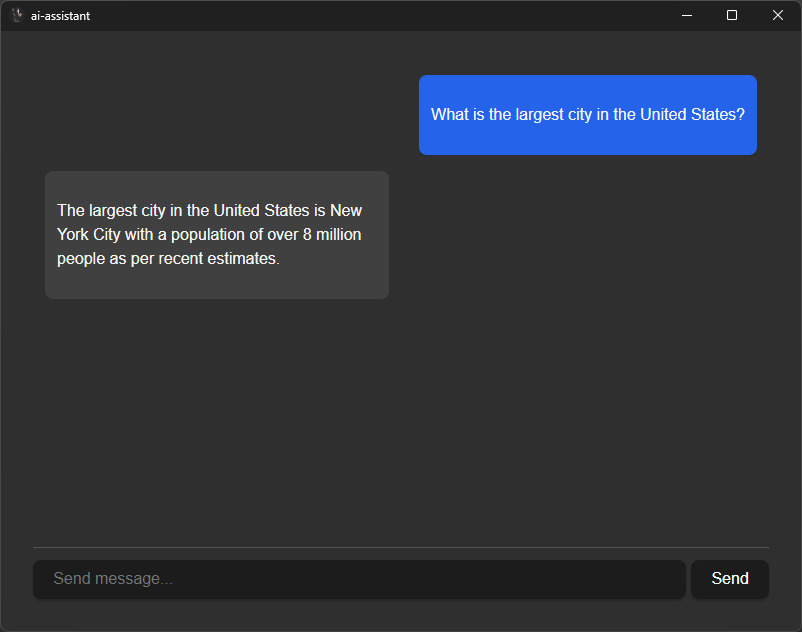
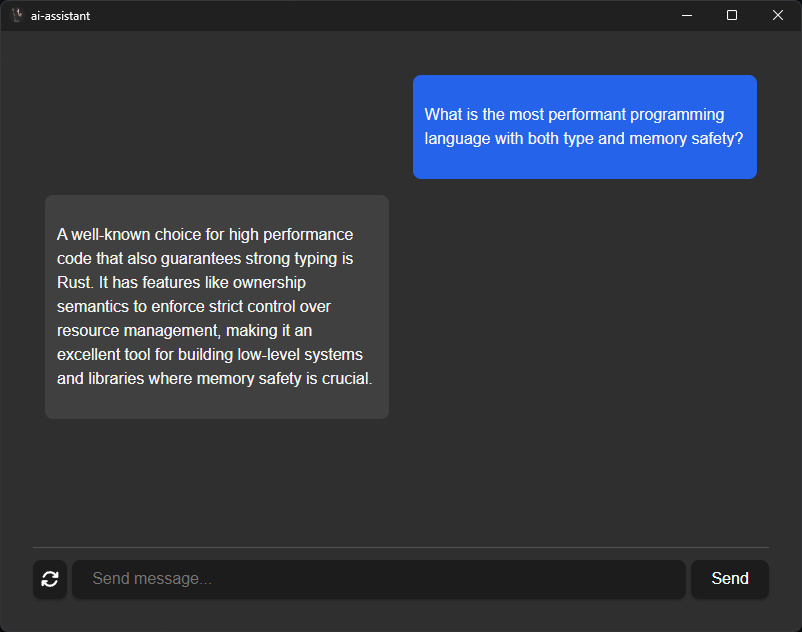
added conversation reset

diff --git a/src/components/Conversation.vue b/src/components/Conversation.vue
@@ -1,13 +1,19 @@
 <template>
     <div class="messages">
-        <div v-for="message in messages" :class="message.isUser ? 'user-message': 'bot-message'">
+        <div v-for="message in messages" :class="message.isUser ? 'user-message' : 'bot-message'">
             <p>{{ message.text }}</p>
         </div>
         <div ref="messageAnchor"></div>
     </div>
 
     <form class="row" @submit.prevent="sendMessage">
-        <input id="send-input" v-model="message" placeholder="Send message..." autocomplete="off" :disabled="formDisabled" />
+        <button id="reset-button" @click.prevent="reset" :disabled="formDisabled">
+            <svg width="18" height="18" xmlns="http://www.w3.org/2000/svg" viewBox="0 0 512 512">
+                <!-- !Font Awesome Free 6.5.1 by @fontawesome - https://fontawesome.com License - https://fontawesome.com/license/free Copyright 2024 Fonticons, Inc. -->
+                <path d="M105.1 202.6c7.7-21.8 20.2-42.3 37.8-59.8c62.5-62.5 163.8-62.5 226.3 0L386.3 160H352c-17.7 0-32 14.3-32 32s14.3 32 32 32H463.5c0 0 0 0 0 0h.4c17.7 0 32-14.3 32-32V80c0-17.7-14.3-32-32-32s-32 14.3-32 32v35.2L414.4 97.6c-87.5-87.5-229.3-87.5-316.8 0C73.2 122 55.6 150.7 44.8 181.4c-5.9 16.7 2.9 34.9 19.5 40.8s34.9-2.9 40.8-19.5zM39 289.3c-5 1.5-9.8 4.2-13.7 8.2c-4 4-6.7 8.8-8.1 14c-.3 1.2-.6 2.5-.8 3.8c-.3 1.7-.4 3.4-.4 5.1V432c0 17.7 14.3 32 32 32s32-14.3 32-32V396.9l17.6 17.5 0 0c87.5 87.4 229.3 87.4 316.7 0c24.4-24.4 42.1-53.1 52.9-83.7c5.9-16.7-2.9-34.9-19.5-40.8s-34.9 2.9-40.8 19.5c-7.7 21.8-20.2 42.3-37.8 59.8c-62.5 62.5-163.8 62.5-226.3 0l-.1-.1L125.6 352H160c17.7 0 32-14.3 32-32s-14.3-32-32-32H48.4c-1.6 0-3.2 .1-4.8 .3s-3.1 .5-4.6 1z"/>
+            </svg>
+        </button>
+        <input id="send-input" v-model="message" placeholder="Send message..." autocomplete="off" :disabled="formDisabled" @keydown.enter.prevent="sendMessage" />
         <button type="submit" :disabled="formDisabled">Send</button>
     </form>
 </template>
@@ -33,7 +39,7 @@ const messageCount = computed(() => {
 
 watch(messageCount, () => {
     scrollToBottom();
-},{ flush: "post" });
+}, { flush: "post" });
 
 async function sendMessage() {
     store.commit("addMessage", {
@@ -53,7 +59,7 @@ async function sendMessage() {
 
     modelResponse.value = await invoke("send_message", { text: userInput });
 
-    store.commit("removeLast");
+    store.commit("removeLastMessage");
 
     store.commit("addMessage", {
         isUser: false,
@@ -66,8 +72,13 @@ async function sendMessage() {
 }
 
 function scrollToBottom() {
-    setTimeout(function() {
-        messageAnchor.value.scrollIntoView({behavior: "smooth"});
+    setTimeout(function () {
+        messageAnchor.value.scrollIntoView({ behavior: "smooth" });
     }, (250));
+}
+
+function reset() {
+    invoke("reset_conversation");
+    store.commit("resetConversation");
 }
 </script>

diff --git a/src/styles.css b/src/styles.css
@@ -121,7 +121,8 @@ button:disabled {
 button:hover:enabled {
   border-color: #396cd8;
 }
-button:active {
+
+button:active:enabled {
   border-color: #396cd8;
   background-color: #e8e8e8;
 }
@@ -136,13 +137,22 @@ button {
   flex-grow: 1;
 }
 
+#reset-button {
+  margin-right: 5px;
+  padding: 4px 7px 0px 7px;
+}
+
+#reset-button:disabled {
+  fill: gray;
+}
+
 @media (prefers-color-scheme: dark) {
   :root {
     color: #f6f6f6;
     background-color: #2f2f2f;
   }
 
-  a:hover {
+  a:hover:enabled {
     color: #24c8db;
   }
 
@@ -151,7 +161,11 @@ button {
     color: #ffffff;
     background-color: #0f0f0f98;
   }
-  button:active {
+  button:active:enabled {
     background-color: #0f0f0f69;
+  }
+
+  #reset-button {
+    fill: #ffffff;
   }
 }

diff --git a/src/main.js b/src/main.js
@@ -13,8 +13,11 @@ const store = createStore({
         addMessage(state, message) {
             state.messages.push(message);
         },
-        removeLast(state) {
+        removeLastMessage(state) {
             state.messages.pop();
+        },
+        resetConversation(state) {
+            state.messages = [];
         }
     }
 })

diff --git a/src-tauri/src/conversation_service.rs b/src-tauri/src/conversation_service.rs
@@ -43,7 +43,31 @@ impl ConversationService {
         )
         .unwrap_or_else(|err| panic!("Failed to load mode from {model_path:?}: {err}"));
 
+        let conversation = Self::get_default_conversation();
+
+        ConversationService {
+            model: Mutex::from(model),
+            conversation: Mutex::from(conversation),
+            persona: "Transcript of a dialog, where the User interacts with an Assistant named Bob. Bob is helpful, kind, honest, good at writing, and never fails to answer the User's requests immediately and with precision.",
+            assistant_name: "### Bob:",
+            user_name: "### User:"
+        }
+    }
+    
+    pub fn add_message(&self, is_user: bool, text: &str) {
+        self.conversation.lock().unwrap().messages.push(Message {
+            is_user: is_user,
+            text: text.to_string()
+        });
+    }
+
+    pub fn reset_conversation(&self) {
+        *self.conversation.lock().unwrap() = Self::get_default_conversation();
+    }
+
+    fn get_default_conversation() -> Conversation {
         let mut messages: Vec<Message> = Vec::new();
+
         messages.push(Message{
             is_user: true,
             text: String::from("Hello, Bob.")
@@ -61,23 +85,8 @@ impl ConversationService {
             text: String::from("The largest city in Europe is Moscow, the capital of Russia.")
         });
 
-        let conversation = Conversation {
+        Conversation {
             messages: messages
-        };
-
-        ConversationService {
-            model: Mutex::from(model),
-            conversation: Mutex::from(conversation),
-            persona: "Transcript of a dialog, where the User interacts with an Assistant named Bob. Bob is helpful, kind, honest, good at writing, and never fails to answer the User's requests immediately and with precision.",
-            assistant_name: "### Bob:",
-            user_name: "### User:"
         }
-    }
-    
-    pub fn add_message(&self, is_user: bool, text: &str) {
-        self.conversation.lock().unwrap().messages.push(Message {
-            is_user: is_user,
-            text: text.to_string()
-        });
     }
 }

diff --git a/src-tauri/src/main.rs b/src-tauri/src/main.rs
@@ -23,12 +23,17 @@ async fn send_message(text: &str, conversation_service: State<'_, ConversationSe
     return Ok(model_response);
 }
 
+#[tauri::command]
+fn reset_conversation(conversation_service: State<'_, ConversationService>) {
+    conversation_service.reset_conversation();
+}
+
 fn main() {
     let conversation_service = ConversationService::new();
 
     tauri::Builder::default()
         .manage(conversation_service)
-        .invoke_handler(tauri::generate_handler![send_message])
+        .invoke_handler(tauri::generate_handler![send_message, reset_conversation])
         .run(tauri::generate_context!())
         .expect("error while running tauri application");
 }
